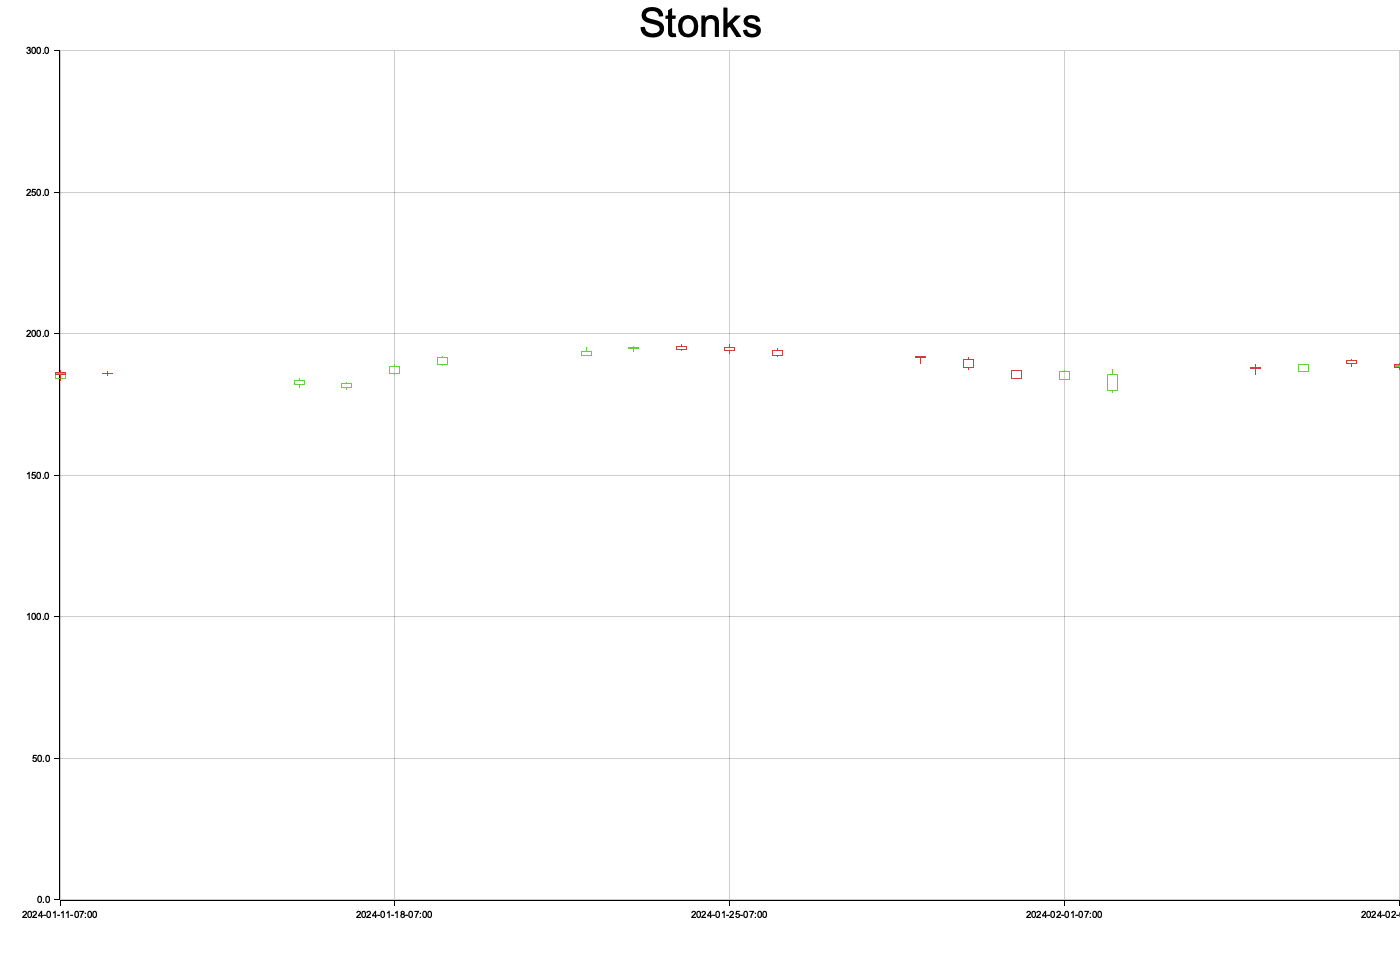
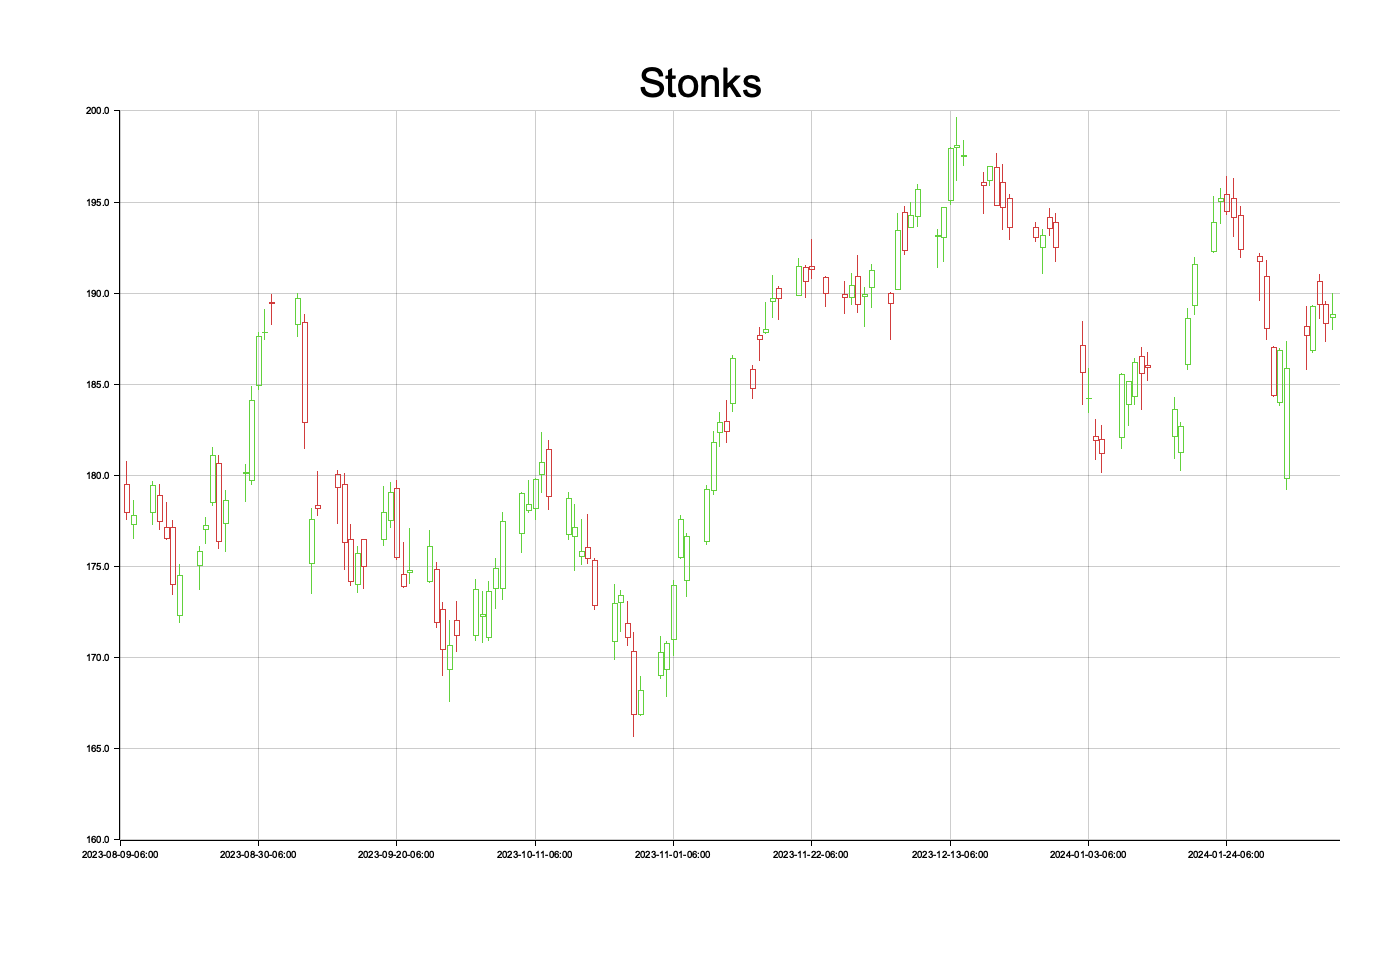
fix: format of plotters image

diff --git a/src/main.rs b/src/main.rs
@@ -36,15 +36,16 @@ async fn main() {
 
             // Get date range
             let (start_date, end_date) = (
-                quotes_to_plot[0].0 + Duration::days(1),
-                quotes_to_plot[quotes_to_plot.len() - 1].0 - Duration::days(1),
+                quotes_to_plot[0].0 - Duration::days(1),
+                quotes_to_plot[quotes_to_plot.len() - 1].0 + Duration::days(1),
             );
             // Basic chart configuration
             let mut chart = ChartBuilder::on(&root)
                 .x_label_area_size(60)
                 .y_label_area_size(60)
+                .margin(60)
                 .caption("Stonks", ("sans-serif", 50.0).into_font())
-                .build_cartesian_2d(start_date..end_date, 0f32..300f32)
+                .build_cartesian_2d(start_date..end_date, 160f32..200f32)
                 .unwrap();
             chart
                 .configure_mesh()
@@ -62,7 +63,7 @@ async fn main() {
                         x.4 as f32,
                         RGBColor(98, 209, 61),
                         RGBColor(209, 61, 61),
-                        10,
+                        5,
                     )
                 }))
                 .unwrap();

diff --git a/src/lib.rs b/src/lib.rs
@@ -32,7 +32,7 @@ impl StockMonitor {
 
     pub async fn analyze_stock(&self) -> Result<StockAnalysis, Box<dyn Error>> {
         let provider = yahoo::YahooConnector::new();
-        let response = provider.get_quote_range(&self.symbol, "1d", "1mo").await?;
+        let response = provider.get_quote_range(&self.symbol, "1d", "6mo").await?;
         let quotes = response.quotes()?;
         let mut analysis = StockAnalysis {
             min_price: std::f64::MAX,
